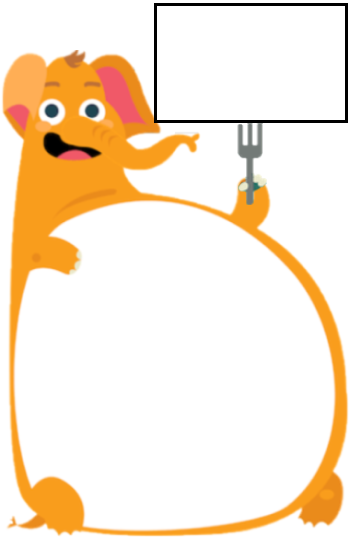
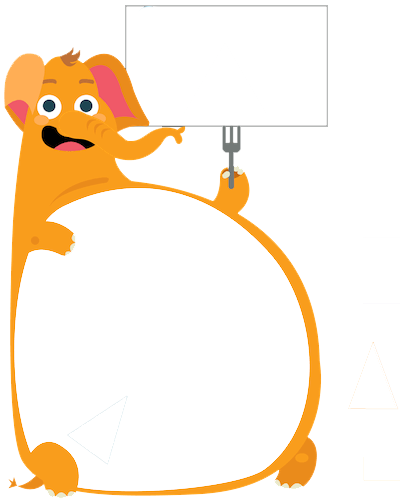
Sửa lại asset, hiệu chỉnh module 2

Changed region(s): [[0.0, 0.0, 1.0, 1.0]]

diff --git a/Module2/Game5_2.js b/Module2/Game5_2.js
@@ -54,12 +54,12 @@ class Game5_2 extends Phaser.Scene {
     this.sleepTime1 = 0; //Biến sleepTime dùng trong hàm update(), set thời gian trước khi voi cam ngủ
     this.sleepTime2 = 0; //Biến sleepTime dùng trong hàm update(), set thời gian trước khi voi tím ngủ
 
-    const orangeElephantX = 330;
+    const orangeElephantX = 360;
     const orangeElephantY = 430;
     this.mouthOrangeX = 230;
     this.mouthOrangeY = 330;
 
-    const purpleElephantX = 1100;
+    const purpleElephantX = 1070;
     const purpleElephantY = 430;
     this.mouthPurpleX = 1220;
     this.mouthPurpleY = 330;
@@ -77,7 +77,7 @@ class Game5_2 extends Phaser.Scene {
     this.purpleMouthOpen.visible = false;
     this.purpleElephantSleep = this.add.image(purpleElephantX, purpleElephantY, "purpleElephantSleep");
     this.purpleElephantSleep.visible = false;
-    this.redRightElephant = this.add.image(purpleElephantX, purpleElephantY, "redRightElephant");
+    this.redRightElephant = this.add.image(purpleElephantX + 5, purpleElephantY, "redRightElephant");
     this.redRightElephant.visible = false;
 
     var backButton = this.add.text(170, 70, 'BACK', { //Nút BACK
@@ -130,11 +130,11 @@ class Game5_2 extends Phaser.Scene {
 
     this.canNotSeeShape();
 
-    this.squareInBoard = new Rect(this, orangeElephantX + 70, orangeElephantY - 195, 60, 60);
+    this.squareInBoard = new Rect(this, orangeElephantX + 20, orangeElephantY - 170, 100, 100);
     this.squareInBoard.fillColor = 0x8729e5;
     this.squareInBoard.scaleX = 0.5;
     this.squareInBoard.scaleY = 0.5;
-    this.hexagonInBoard = new Hex(this, purpleElephantX - 70, purpleElephantY - 195, 36, 36);
+    this.hexagonInBoard = new Hex(this, purpleElephantX - 20, purpleElephantY - 170, 36, 36);
     this.hexagonInBoard.fillColor = 0xe7ea0e;
 
     this.squareText = this.add.text(config.width / 2 - 10, config.height / 2, 'I eat squares', {
@@ -153,8 +153,8 @@ class Game5_2 extends Phaser.Scene {
           duration: 1500
         },
         {
-          x: orangeElephantX,
-          y: orangeElephantY - 260,
+          x: orangeElephantX - 50,
+          y: orangeElephantY - 230,
           scaleX: 0.6,
           scaleY: 0.6,
           duration: 1000
@@ -180,8 +180,8 @@ class Game5_2 extends Phaser.Scene {
             duration: 1500
           },
           {
-            x: purpleElephantX - 156,
-            y: purpleElephantY - 260,
+            x: purpleElephantX - 110,
+            y: purpleElephantY - 230,
             scaleX: 0.6,
             scaleY: 0.6,
             duration: 1000

diff --git a/Module2/Game5_1.js b/Module2/Game5_1.js
@@ -49,12 +49,12 @@ class Game5_1 extends Phaser.Scene {
 
     this.sleepTime1 = 0; //Biến sleepTime dùng trong hàm update(), set thời gian trước khi voi lam ngủ
 
-    const blueElephantX = 330;
-    const blueElephantY = 390;
+    const blueElephantX = 360;
+    const blueElephantY = 430;
     this.mouthblueX = 230;
     this.mouthblueY = 330;
 
-    const purpleElephantX = 1100;
+    const purpleElephantX = 1070;
     const purpleElephantY = 430;
     this.mouthPurpleX = 1220;
     this.mouthPurpleY = 330;
@@ -64,7 +64,7 @@ class Game5_1 extends Phaser.Scene {
     this.blueMouthOpen.visible = false;
     this.blueElephantSleep = this.add.image(blueElephantX, blueElephantY, "blueElephantSleep");
     this.blueElephantSleep.visible = false;
-    this.redLeftElephant = this.add.image(blueElephantX, blueElephantY + 20, "redLeftElephant");
+    this.redLeftElephant = this.add.image(blueElephantX - 5, blueElephantY, "redLeftElephant");
     this.redLeftElephant.visible = false;
 
     this.purpleElephantSleep = this.add.image(purpleElephantX, purpleElephantY, "purpleElephantSleep");
@@ -114,13 +114,10 @@ class Game5_1 extends Phaser.Scene {
     this.t2 = this.add.image(550, 400, "t2").setName('triangle').setInteractive();
     this.t2.angle = 30;
 
-    //t5.setScale(0.8);
     this.canNotSeeShape();
 
-    this.hexagonInBoard = new Hex(this, blueElephantX + 70, blueElephantY - 165, 30, 30, 0x8729e5);
+    this.hexagonInBoard = new Hex(this, blueElephantX + 20, blueElephantY - 170, 30, 30, 0x8729e5);
     this.hexagonInBoard.fillColor = 0x8729e5;
-    // this.hexagonInBoard.scaleX = 0.5;
-    // this.hexagonInBoard.scaleY = 0.5;
 
     this.hexagonText = this.add.text(config.width / 2 - 10, config.height / 2, 'I eat hexagons', {
       fontFamily: "Roboto Condensed",
@@ -138,7 +135,7 @@ class Game5_1 extends Phaser.Scene {
           duration: 1500
         },
         {
-          x: blueElephantX - 14,
+          x: blueElephantX - 60,
           y: blueElephantY - 230,
           scaleX: 0.6,
           scaleY: 0.6,

diff --git a/Module2/Game4_3.js b/Module2/Game4_3.js
@@ -59,12 +59,12 @@ class Game4_3 extends Phaser.Scene {
     this.sleepTime1 = 0; //Biến sleepTime dùng trong hàm update(), set thời gian trước khi voi cam ngủ
     this.sleepTime2 = 0; //Biến sleepTime dùng trong hàm update(), set thời gian trước khi voi tím ngủ
 
-    const greenElephantX = 330;
-    const greenElephantY = 410;
+    const greenElephantX = 360;
+    const greenElephantY = 430;
     this.mouthgreenX = 230;
     this.mouthgreenY = 310;
 
-    const purpleElephantX = 1100;
+    const purpleElephantX = 1070;
     const purpleElephantY = 430;
     this.mouthPurpleX = 1220;
     this.mouthPurpleY = 330;
@@ -134,11 +134,11 @@ class Game4_3 extends Phaser.Scene {
 
     this.canNotSeeShape();
 
-    this.triangleInBoard = new Tri(this, greenElephantX + 70, greenElephantY - 195);
+    this.triangleInBoard = new Tri(this, greenElephantX + 20, greenElephantY - 170);
     this.triangleInBoard.fillColor = 0x8729e5;
     this.triangleInBoard.scaleX = 0.5;
     this.triangleInBoard.scaleY = 0.5;
-    this.squareInBoard = new Rect(this, purpleElephantX - 70, purpleElephantY - 195, 46, 46);
+    this.squareInBoard = new Rect(this, purpleElephantX - 20, purpleElephantY - 170, 48, 48);
     this.squareInBoard.fillColor = 0xe7ea0e;
 
     this.triangleText = this.add.text(config.width / 2 - 10, config.height / 2, 'I eat triangles', {
@@ -157,8 +157,8 @@ class Game4_3 extends Phaser.Scene {
           duration: 1500
         },
         {
-          x: greenElephantX - 18,
-          y: greenElephantY - 260,
+          x: greenElephantX - 50,
+          y: greenElephantY - 230,
           scaleX: 0.6,
           scaleY: 0.6,
           duration: 1000
@@ -184,8 +184,8 @@ class Game4_3 extends Phaser.Scene {
             duration: 1500
           },
           {
-            x: purpleElephantX - 145,
-            y: purpleElephantY - 260,
+            x: purpleElephantX - 100,
+            y: purpleElephantY - 230,
             scaleX: 0.6,
             scaleY: 0.6,
             duration: 1000

diff --git a/Module2/Game4_1.js b/Module2/Game4_1.js
@@ -54,12 +54,12 @@ class Game4_1 extends Phaser.Scene {
     this.sleepTime1 = 0; //Biến sleepTime dùng trong hàm update(), set thời gian trước khi voi cam ngủ
     this.sleepTime2 = 0; //Biến sleepTime dùng trong hàm update(), set thời gian trước khi voi tím ngủ
 
-    const orangeElephantX = 330;
+    const orangeElephantX = 360;
     const orangeElephantY = 430;
     this.mouthOrangeX = 230;
     this.mouthOrangeY = 330;
 
-    const purpleElephantX = 1100;
+    const purpleElephantX = 1070;
     const purpleElephantY = 430;
     this.mouthPurpleX = 1220;
     this.mouthPurpleY = 330;
@@ -127,11 +127,11 @@ class Game4_1 extends Phaser.Scene {
 
     this.canNotSeeShape();
 
-    this.triangleInBoard = new Tri(this, orangeElephantX + 70, orangeElephantY - 195);
+    this.triangleInBoard = new Tri(this, orangeElephantX + 20, orangeElephantY - 170);
     this.triangleInBoard.fillColor = 0x8729e5;
     this.triangleInBoard.scaleX = 0.5;
     this.triangleInBoard.scaleY = 0.5;
-    this.circleInBoard = new Cir(this, purpleElephantX - 70, purpleElephantY - 195, 36, 36);
+    this.circleInBoard = new Cir(this, purpleElephantX - 20, purpleElephantY - 170, 35, 35);
     this.circleInBoard.fillColor = 0xe7ea0e;
 
     this.triangleText = this.add.text(config.width / 2 - 10, config.height / 2, 'I eat triangles', {
@@ -150,8 +150,8 @@ class Game4_1 extends Phaser.Scene {
           duration: 1500
         },
         {
-          x: orangeElephantX - 8,
-          y: orangeElephantY - 260,
+          x: orangeElephantX - 50,
+          y: orangeElephantY - 230,
           scaleX: 0.6,
           scaleY: 0.6,
           duration: 1000
@@ -177,8 +177,8 @@ class Game4_1 extends Phaser.Scene {
             duration: 1500
           },
           {
-            x: purpleElephantX - 145,
-            y: purpleElephantY - 260,
+            x: purpleElephantX - 100,
+            y: purpleElephantY - 230,
             scaleX: 0.6,
             scaleY: 0.6,
             duration: 1000

diff --git a/Module2/Game4_2.js b/Module2/Game4_2.js
@@ -49,13 +49,13 @@ class Game4_2 extends Phaser.Scene {
 
     this.sleepTime1 = 0; //Biến sleepTime dùng trong hàm update(), set thời gian trước khi voi lam ngủ
 
-    const blueElephantX = 330;
-    const blueElephantY = 390;
+    const blueElephantX = 360;
+    const blueElephantY = 430;
     this.mouthblueX = 230;
     this.mouthblueY = 330;
 
-    const purpleElephantX = 1100;
-    const purpleElephantY = 420;
+    const purpleElephantX = 1070;
+    const purpleElephantY = 430;
     this.mouthPurpleX = 1220;
     this.mouthPurpleY = 330;
 
@@ -116,7 +116,7 @@ class Game4_2 extends Phaser.Scene {
     //t5.setScale(0.8);
     this.canNotSeeShape();
 
-    this.triangleInBoard = new Tri(this, blueElephantX + 70, blueElephantY - 165);
+    this.triangleInBoard = new Tri(this, blueElephantX + 20, blueElephantY - 170);
     this.triangleInBoard.fillColor = 0x8729e5;
     this.triangleInBoard.scaleX = 0.5;
     this.triangleInBoard.scaleY = 0.5;
@@ -137,7 +137,7 @@ class Game4_2 extends Phaser.Scene {
           duration: 1500
         },
         {
-          x: blueElephantX - 8,
+          x: blueElephantX - 50,
           y: blueElephantY - 230,
           scaleX: 0.6,
           scaleY: 0.6,

diff --git a/StartScene.js b/StartScene.js
@@ -26,7 +26,7 @@ class StartScene extends Phaser.Scene {
 
     var g3 = this.add.image(1020, 310, "game3");
     g3.setInteractive();
-    g3.on('pointerup', () => this.scene.start("Game3_2"));
+    g3.on('pointerup', () => this.scene.start("Game3_1"));
 
     var g4 = this.add.image(1300, 305, "game4");
     g4.setInteractive();
